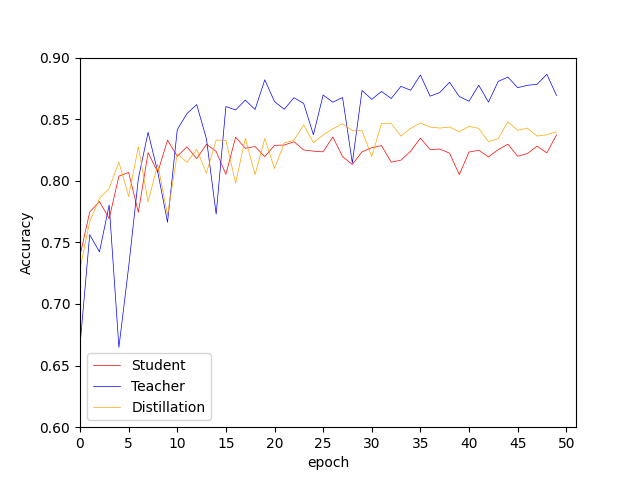
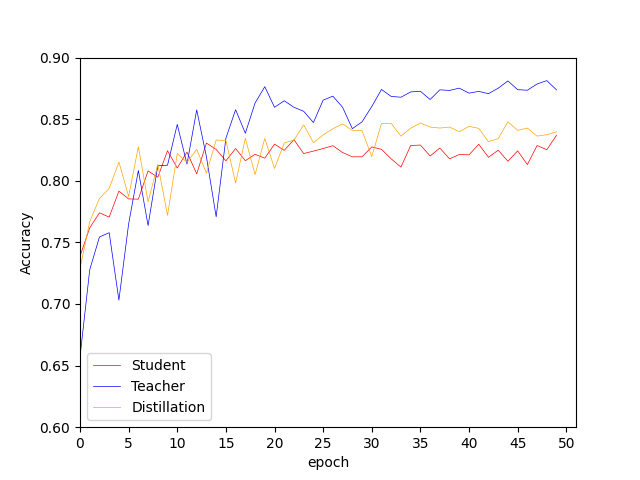
train teacher 10iter

diff --git a/covid_result.py b/covid_result.py
@@ -9,15 +9,15 @@ def main():
     st_path = 'history/student_st/0'
 
     # loading history
-    student_acc = load_hist(student_path, 5)
-    teacher_acc = load_hist(teacher_path, 5)
+    student_acc = load_hist(student_path, 10)
+    teacher_acc = load_hist(teacher_path, 10)
     st_acc = load_hist(st_path, 5)
     
     # print test accuracy
-    student_avg_acc = load_avg_test('history/student/test0', 5)
-    student_best_acc = load_best_test('history/student/test0', 5)
-    teacher_avg_acc = load_avg_test('history/teacher/test0', 5)
-    teacher_best_acc = load_best_test('history/teacher/test0', 5)
+    student_avg_acc = load_avg_test('history/student/test0', 10)
+    student_best_acc = load_best_test('history/student/test0', 10)
+    teacher_avg_acc = load_avg_test('history/teacher/test0', 10)
+    teacher_best_acc = load_best_test('history/teacher/test0', 10)
     st_avg_acc = load_avg_test('history/student_st/test0', 5)
     st_best_acc = load_best_test('history/student_st/test0', 5)
     

diff --git a/train_kd.py b/train_kd.py
@@ -14,7 +14,7 @@ from src.kd_loss.st import SoftTargetLoss
 import pickle
 
 def main():
-    for i in range(1, 5):
+    for i in range(5, 10):
         print(i+1)
         epochs = 50
         batch_size = 32

diff --git a/train_student.py b/train_student.py
@@ -14,7 +14,7 @@ from src.kd_loss.st import SoftTargetLoss
 import pickle
 
 def main():
-    for i in range(5):
+    for i in range(5, 10):
         print(i+1)
         epochs = 50
         batch_size = 32

diff --git a/train_teacher.py b/train_teacher.py
@@ -15,7 +15,7 @@ import random
 import pickle
 
 def main():
-    for i in range(1):
+    for i in range(5, 10):
         epochs = 50
         batch_size = 32
         print(i+1)
